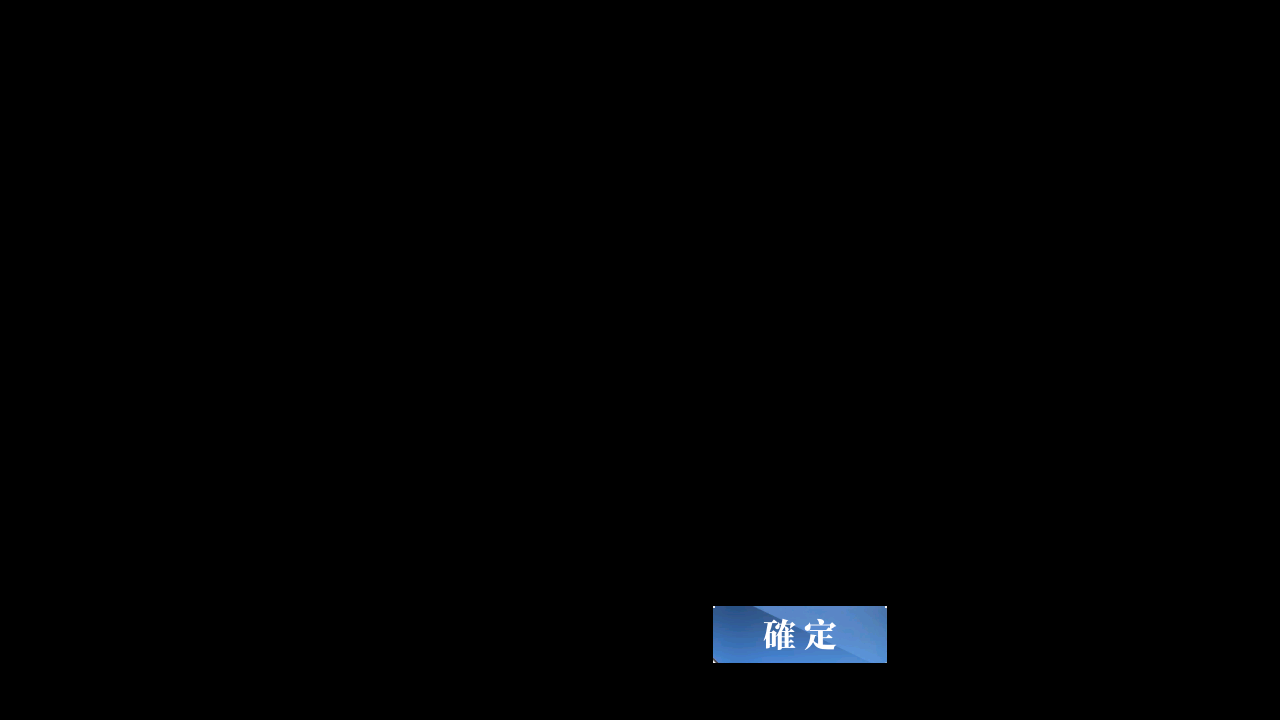
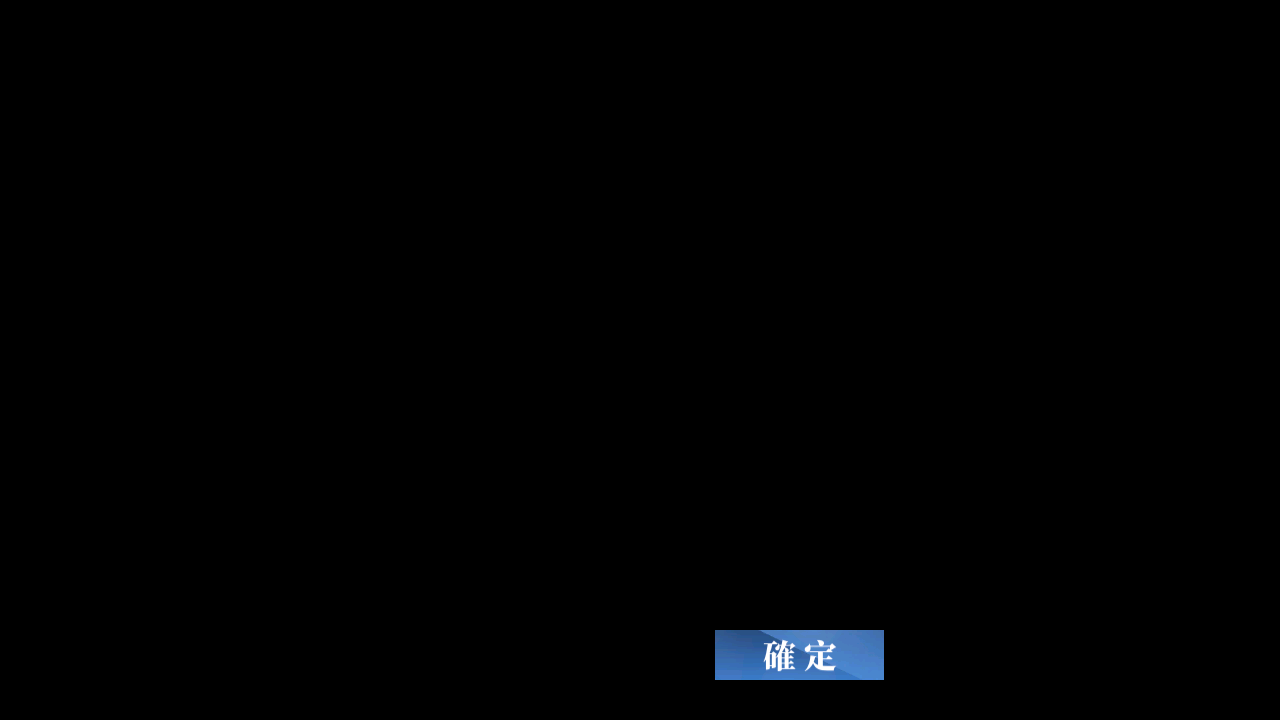
Fix: [TW]  Dock filter confirm asset

Changed region(s): [[0.5312, 0.825, 0.7188, 0.9472]]

diff --git a/module/retire/assets.py b/module/retire/assets.py
@@ -9,7 +9,7 @@ COMMON_SHIP_FILTER_ENABLE = Button(area={'cn': (666, 6, 802, 48), 'en': (665, 5,
 DOCK_CHECK = Button(area={'cn': (121, 14, 175, 39), 'en': (121, 17, 189, 39), 'jp': (123, 15, 195, 38), 'tw': (121, 13, 176, 39)}, color={'cn': (156, 171, 207), 'en': (112, 125, 162), 'jp': (97, 108, 142), 'tw': (149, 164, 200)}, button={'cn': (121, 14, 175, 39), 'en': (121, 17, 189, 39), 'jp': (123, 15, 195, 38), 'tw': (121, 13, 176, 39)}, file={'cn': './assets/cn/retire/DOCK_CHECK.png', 'en': './assets/en/retire/DOCK_CHECK.png', 'jp': './assets/jp/retire/DOCK_CHECK.png', 'tw': './assets/tw/retire/DOCK_CHECK.png'})
 DOCK_EMPTY = Button(area={'cn': (95, 347, 388, 378), 'en': (95, 318, 264, 339), 'jp': (96, 347, 252, 376), 'tw': (94, 347, 390, 379)}, color={'cn': (160, 154, 159), 'en': (106, 99, 106), 'jp': (159, 152, 156), 'tw': (163, 157, 162)}, button={'cn': (95, 347, 388, 378), 'en': (95, 318, 264, 339), 'jp': (96, 347, 252, 376), 'tw': (94, 347, 390, 379)}, file={'cn': './assets/cn/retire/DOCK_EMPTY.png', 'en': './assets/en/retire/DOCK_EMPTY.png', 'jp': './assets/jp/retire/DOCK_EMPTY.png', 'tw': './assets/tw/retire/DOCK_EMPTY.png'})
 DOCK_FILTER = Button(area={'cn': (1099, 5, 1193, 48), 'en': (1098, 4, 1194, 49), 'jp': (1101, 6, 1192, 46), 'tw': (1099, 6, 1193, 47)}, color={'cn': (70, 87, 127), 'en': (73, 90, 128), 'jp': (67, 84, 125), 'tw': (78, 96, 137)}, button={'cn': (1099, 5, 1193, 48), 'en': (1098, 4, 1194, 49), 'jp': (1101, 6, 1192, 46), 'tw': (1099, 6, 1193, 47)}, file={'cn': './assets/cn/retire/DOCK_FILTER.png', 'en': './assets/en/retire/DOCK_FILTER.png', 'jp': './assets/jp/retire/DOCK_FILTER.png', 'tw': './assets/tw/retire/DOCK_FILTER.png'})
-DOCK_FILTER_CONFIRM = Button(area={'cn': (714, 613, 886, 671), 'en': (722, 615, 878, 656), 'jp': (715, 608, 884, 662), 'tw': (713, 606, 887, 663)}, color={'cn': (86, 133, 192), 'en': (109, 148, 201), 'jp': (83, 129, 188), 'tw': (89, 134, 193)}, button={'cn': (714, 613, 886, 671), 'en': (722, 615, 878, 656), 'jp': (715, 608, 884, 662), 'tw': (713, 606, 887, 663)}, file={'cn': './assets/cn/retire/DOCK_FILTER_CONFIRM.png', 'en': './assets/en/retire/DOCK_FILTER_CONFIRM.png', 'jp': './assets/jp/retire/DOCK_FILTER_CONFIRM.png', 'tw': './assets/tw/retire/DOCK_FILTER_CONFIRM.png'})
+DOCK_FILTER_CONFIRM = Button(area={'cn': (714, 613, 886, 671), 'en': (722, 615, 878, 656), 'jp': (715, 608, 884, 662), 'tw': (715, 630, 884, 680)}, color={'cn': (86, 133, 192), 'en': (109, 148, 201), 'jp': (83, 129, 188), 'tw': (83, 130, 190)}, button={'cn': (714, 613, 886, 671), 'en': (722, 615, 878, 656), 'jp': (715, 608, 884, 662), 'tw': (715, 630, 884, 680)}, file={'cn': './assets/cn/retire/DOCK_FILTER_CONFIRM.png', 'en': './assets/en/retire/DOCK_FILTER_CONFIRM.png', 'jp': './assets/jp/retire/DOCK_FILTER_CONFIRM.png', 'tw': './assets/tw/retire/DOCK_FILTER_CONFIRM.png'})
 DOCK_SCROLL = Button(area={'cn': (1239, 76, 1248, 641), 'en': (1239, 76, 1248, 641), 'jp': (1237, 78, 1250, 628), 'tw': (1239, 76, 1248, 641)}, color={'cn': (47, 46, 37), 'en': (47, 46, 37), 'jp': (180, 156, 66), 'tw': (47, 46, 37)}, button={'cn': (1239, 76, 1248, 641), 'en': (1239, 76, 1248, 641), 'jp': (1237, 78, 1250, 628), 'tw': (1239, 76, 1248, 641)}, file={'cn': './assets/cn/retire/DOCK_SCROLL.png', 'en': './assets/en/retire/DOCK_SCROLL.png', 'jp': './assets/jp/retire/DOCK_SCROLL.png', 'tw': './assets/tw/retire/DOCK_SCROLL.png'})
 DOCK_SELECTED = Button(area={'cn': (555, 665, 605, 686), 'en': (696, 659, 751, 689), 'jp': (585, 663, 644, 688), 'tw': (555, 665, 605, 686)}, color={'cn': (83, 86, 96), 'en': (69, 70, 79), 'jp': (69, 71, 82), 'tw': (83, 86, 96)}, button={'cn': (555, 665, 605, 686), 'en': (696, 659, 751, 689), 'jp': (585, 663, 644, 688), 'tw': (555, 665, 605, 686)}, file={'cn': './assets/cn/retire/DOCK_SELECTED.png', 'en': './assets/en/retire/DOCK_SELECTED.png', 'jp': './assets/jp/retire/DOCK_SELECTED.png', 'tw': './assets/tw/retire/DOCK_SELECTED.png'})
 ENHANCE_CONFIRM = Button(area={'cn': (1126, 602, 1256, 645), 'en': (1130, 603, 1255, 643), 'jp': (1126, 601, 1257, 646), 'tw': (1126, 602, 1257, 644)}, color={'cn': (203, 149, 81), 'en': (204, 148, 82), 'jp': (189, 139, 78), 'tw': (198, 145, 82)}, button={'cn': (1126, 602, 1256, 645), 'en': (1130, 603, 1255, 643), 'jp': (1126, 601, 1257, 646), 'tw': (1126, 602, 1257, 644)}, file={'cn': './assets/cn/retire/ENHANCE_CONFIRM.png', 'en': './assets/en/retire/ENHANCE_CONFIRM.png', 'jp': './assets/jp/retire/ENHANCE_CONFIRM.png', 'tw': './assets/tw/retire/ENHANCE_CONFIRM.png'})
